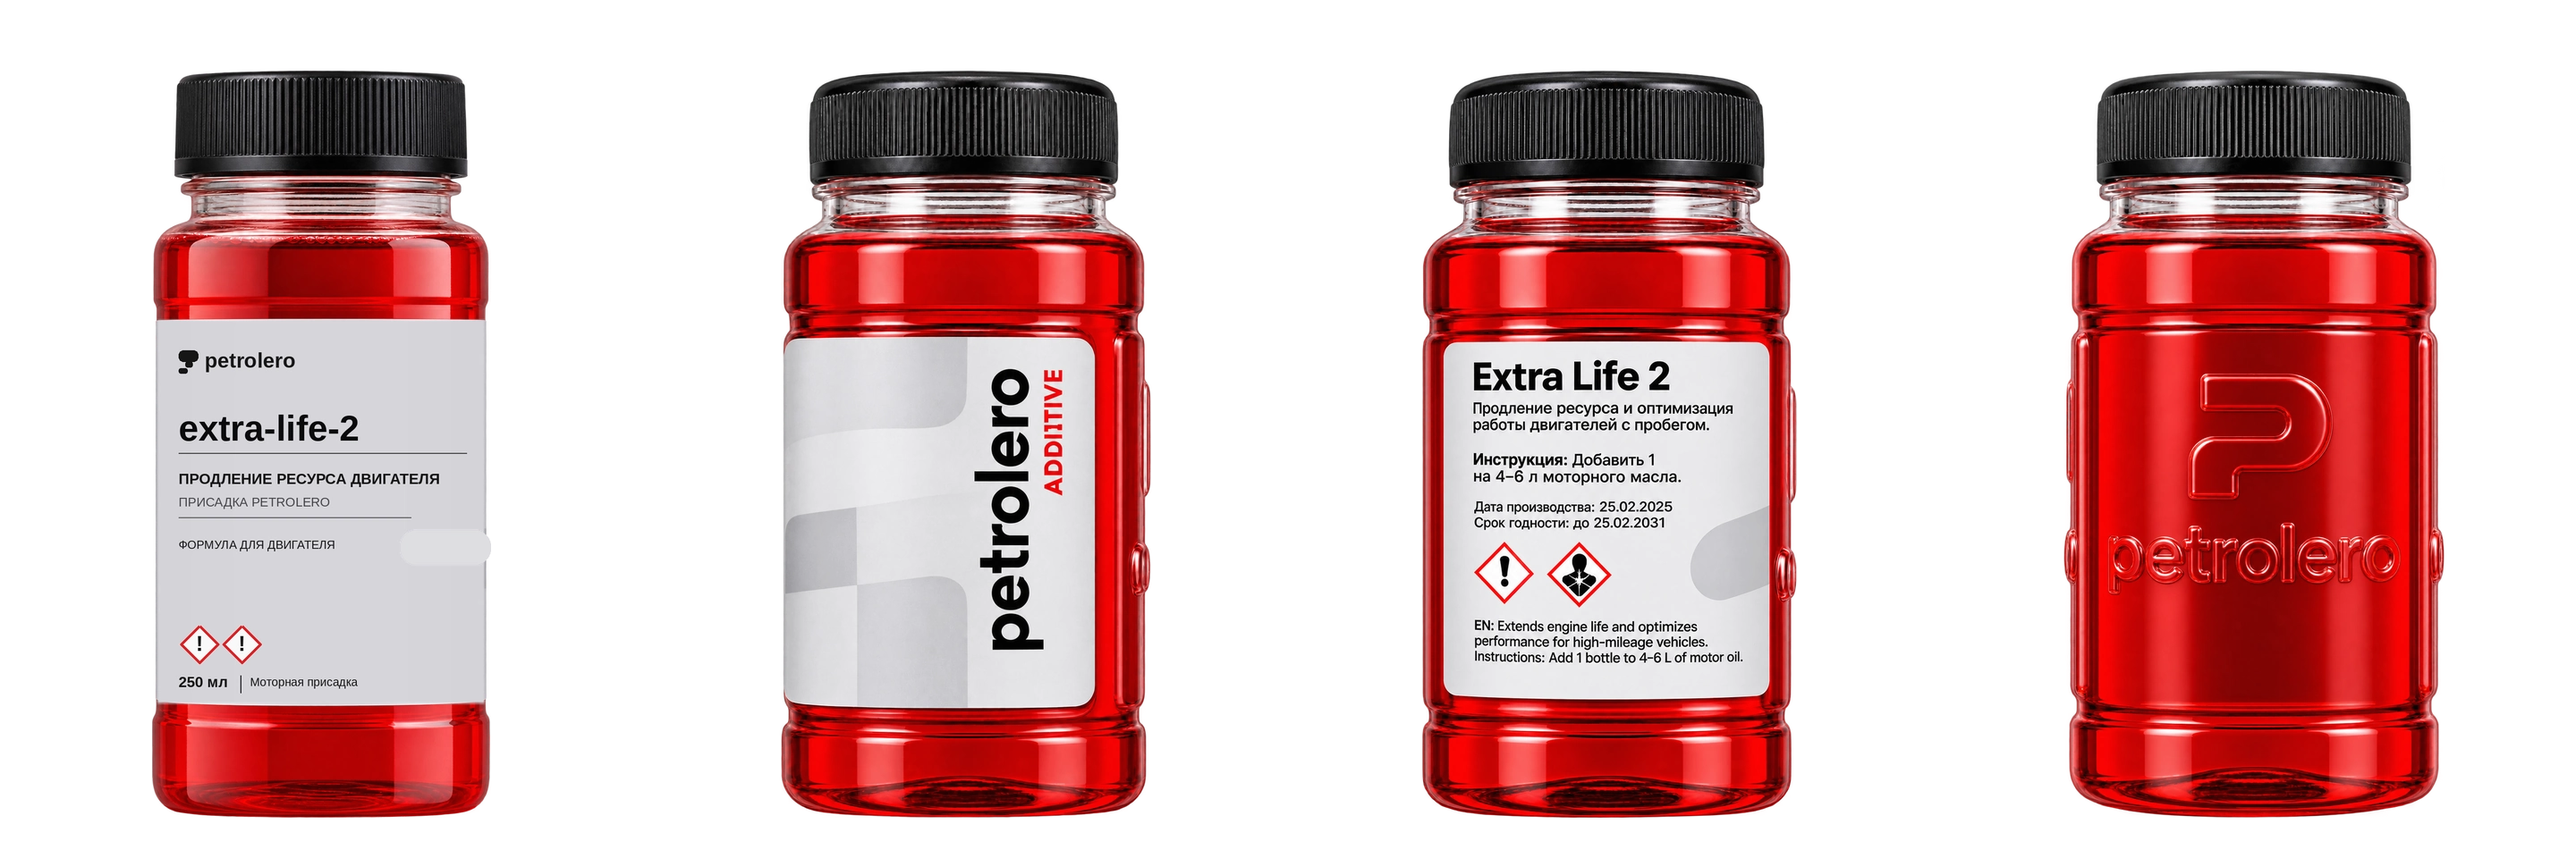
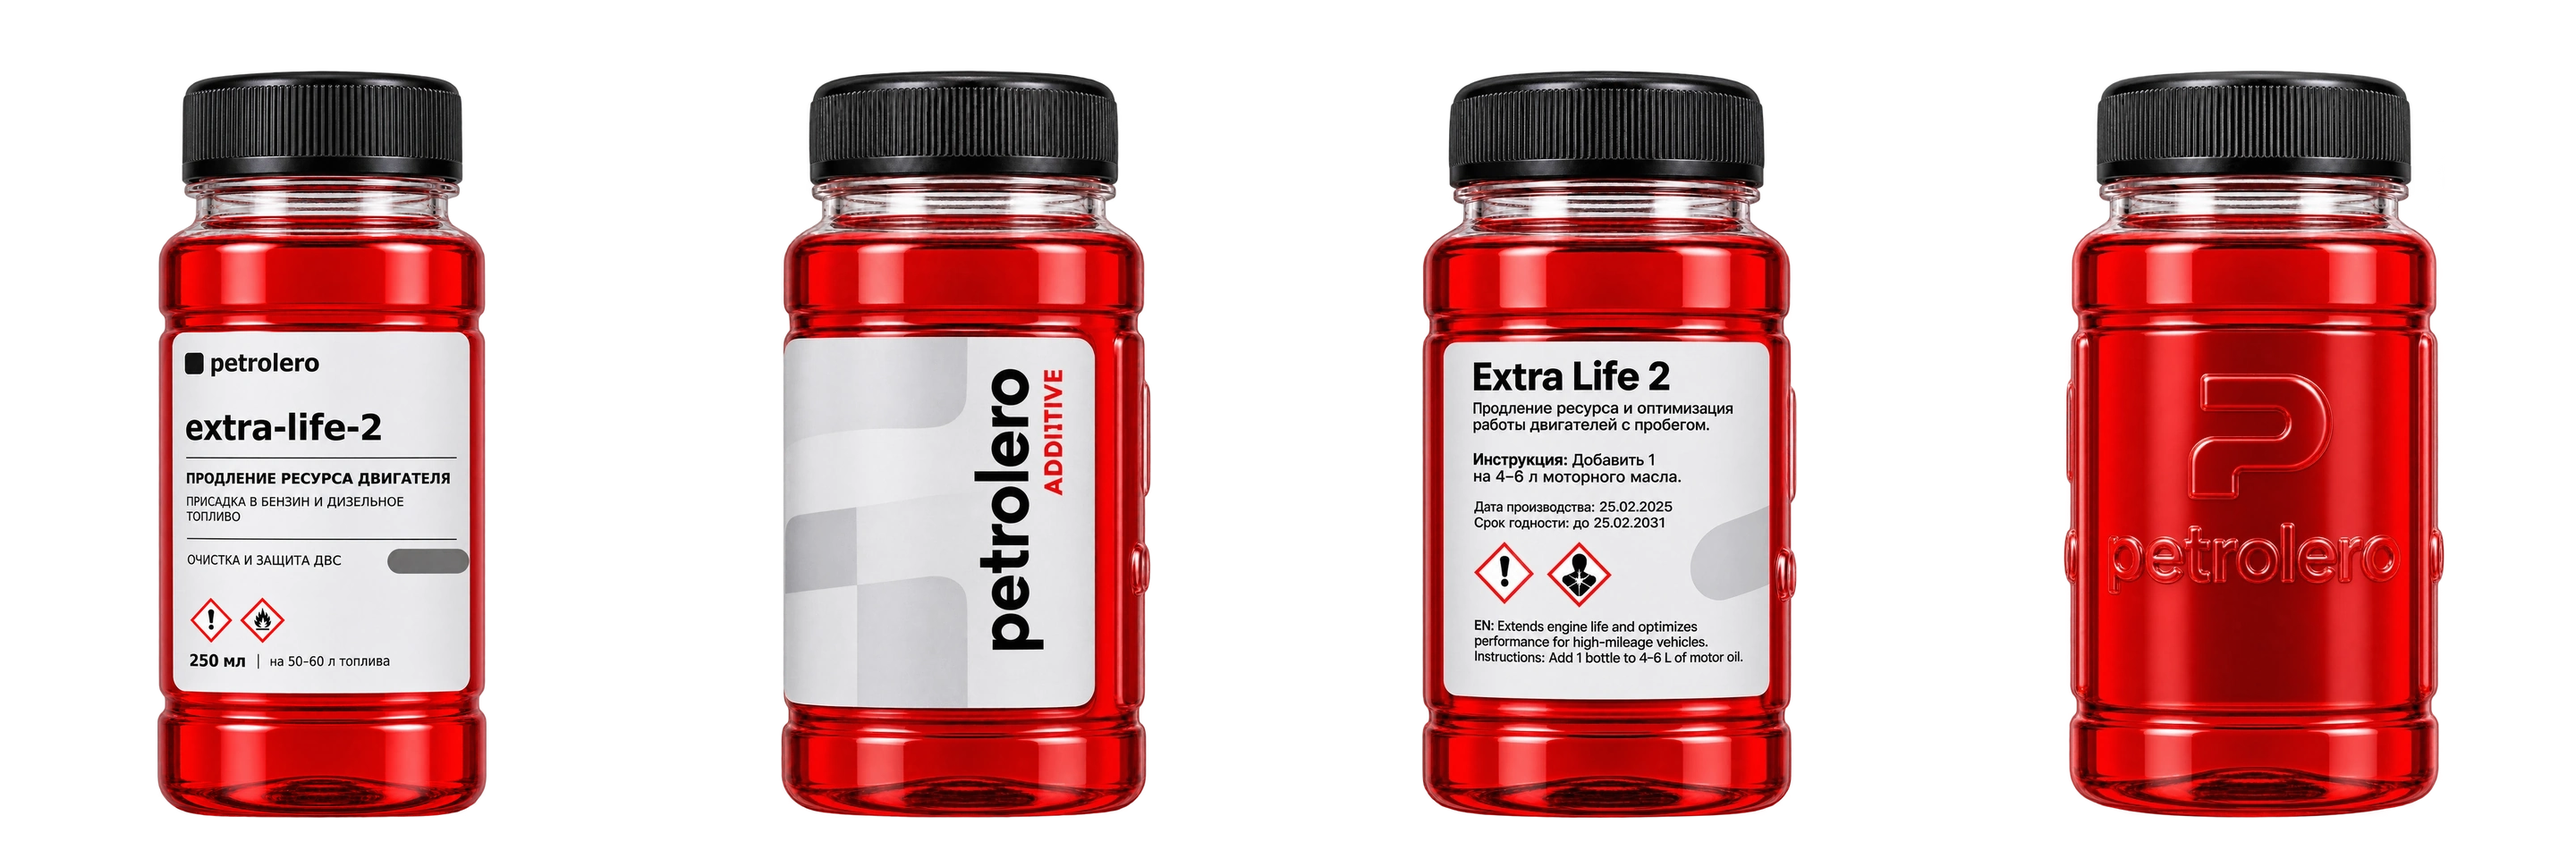
fix(catalog): replace Extra Life 2 front slide with matching bottle geometry

Changed region(s): [[0.0312, 0.0625, 0.1875, 0.9688]]

diff --git a/src/features/catalog/catalogData.ts b/src/features/catalog/catalogData.ts
@@ -56,7 +56,7 @@ const DEMO_OIL_IMAGE = "/catalog/products/oils/petrolero-drum.avif";
 
 const DEMO_ADDITIVE_IMAGES = {
   caremaker: "/catalog/products/additives/caremaker-5.avif",
-  extraLife: "/catalog/products/additives/extra-life-2.avif",
+  extraLife: "/catalog/products/additives/extra-life-2-front.webp",
   fullThrottle: "/catalog/products/additives/full-throttle-6.avif",
   performance: "/catalog/products/additives/performance-1.avif",
   turboBoost: "/catalog/products/additives/turbo-boost.avif",
